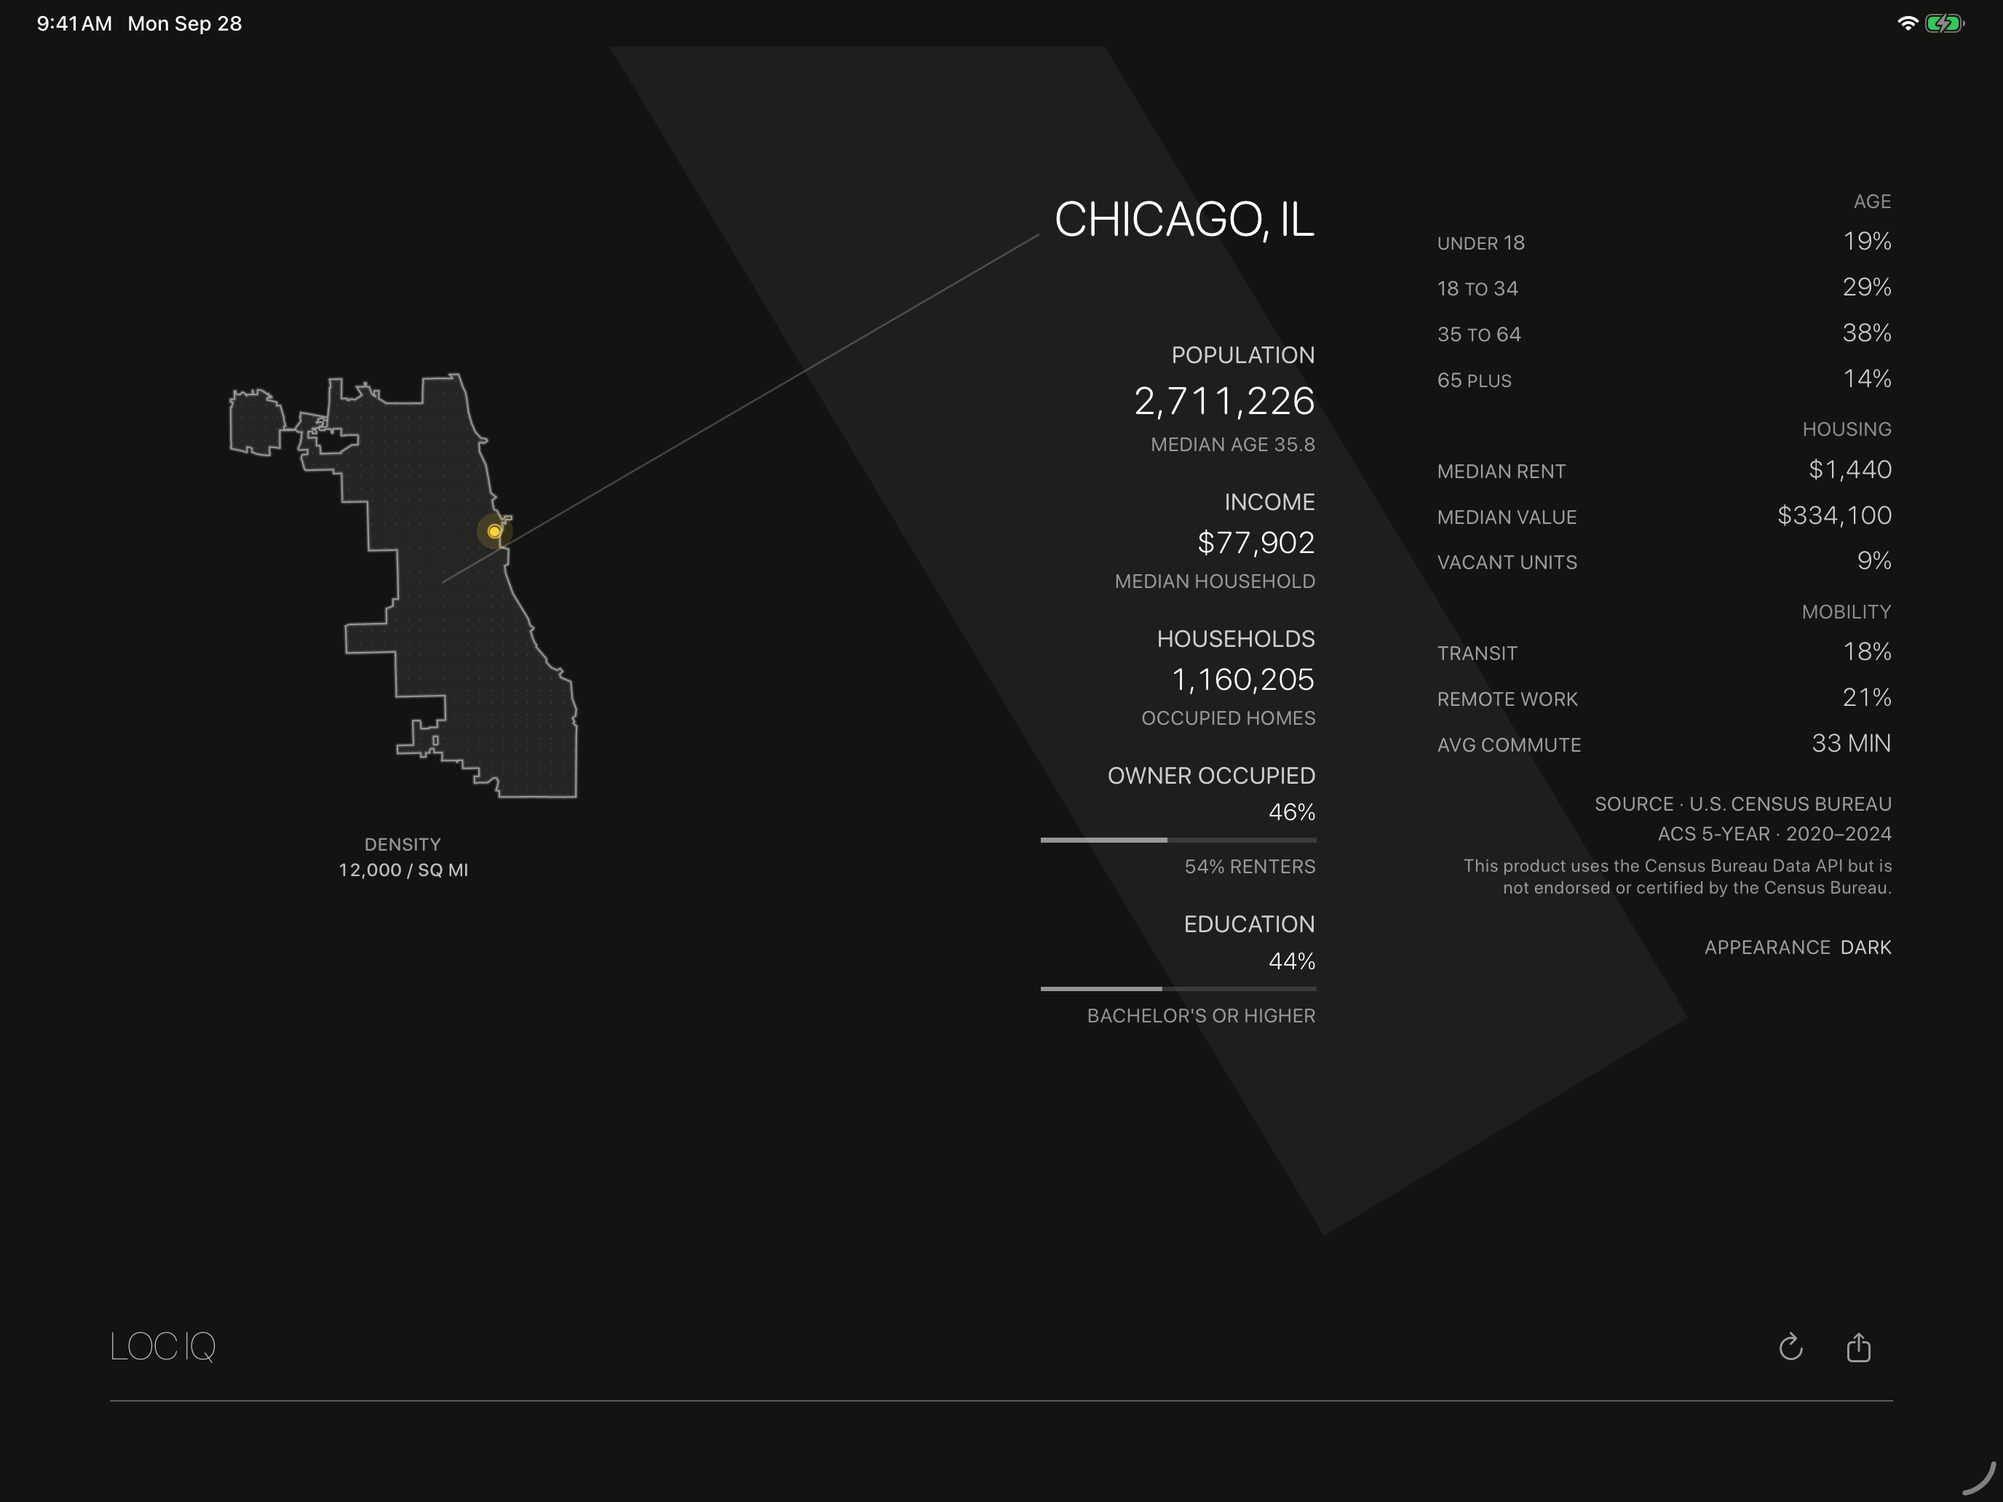
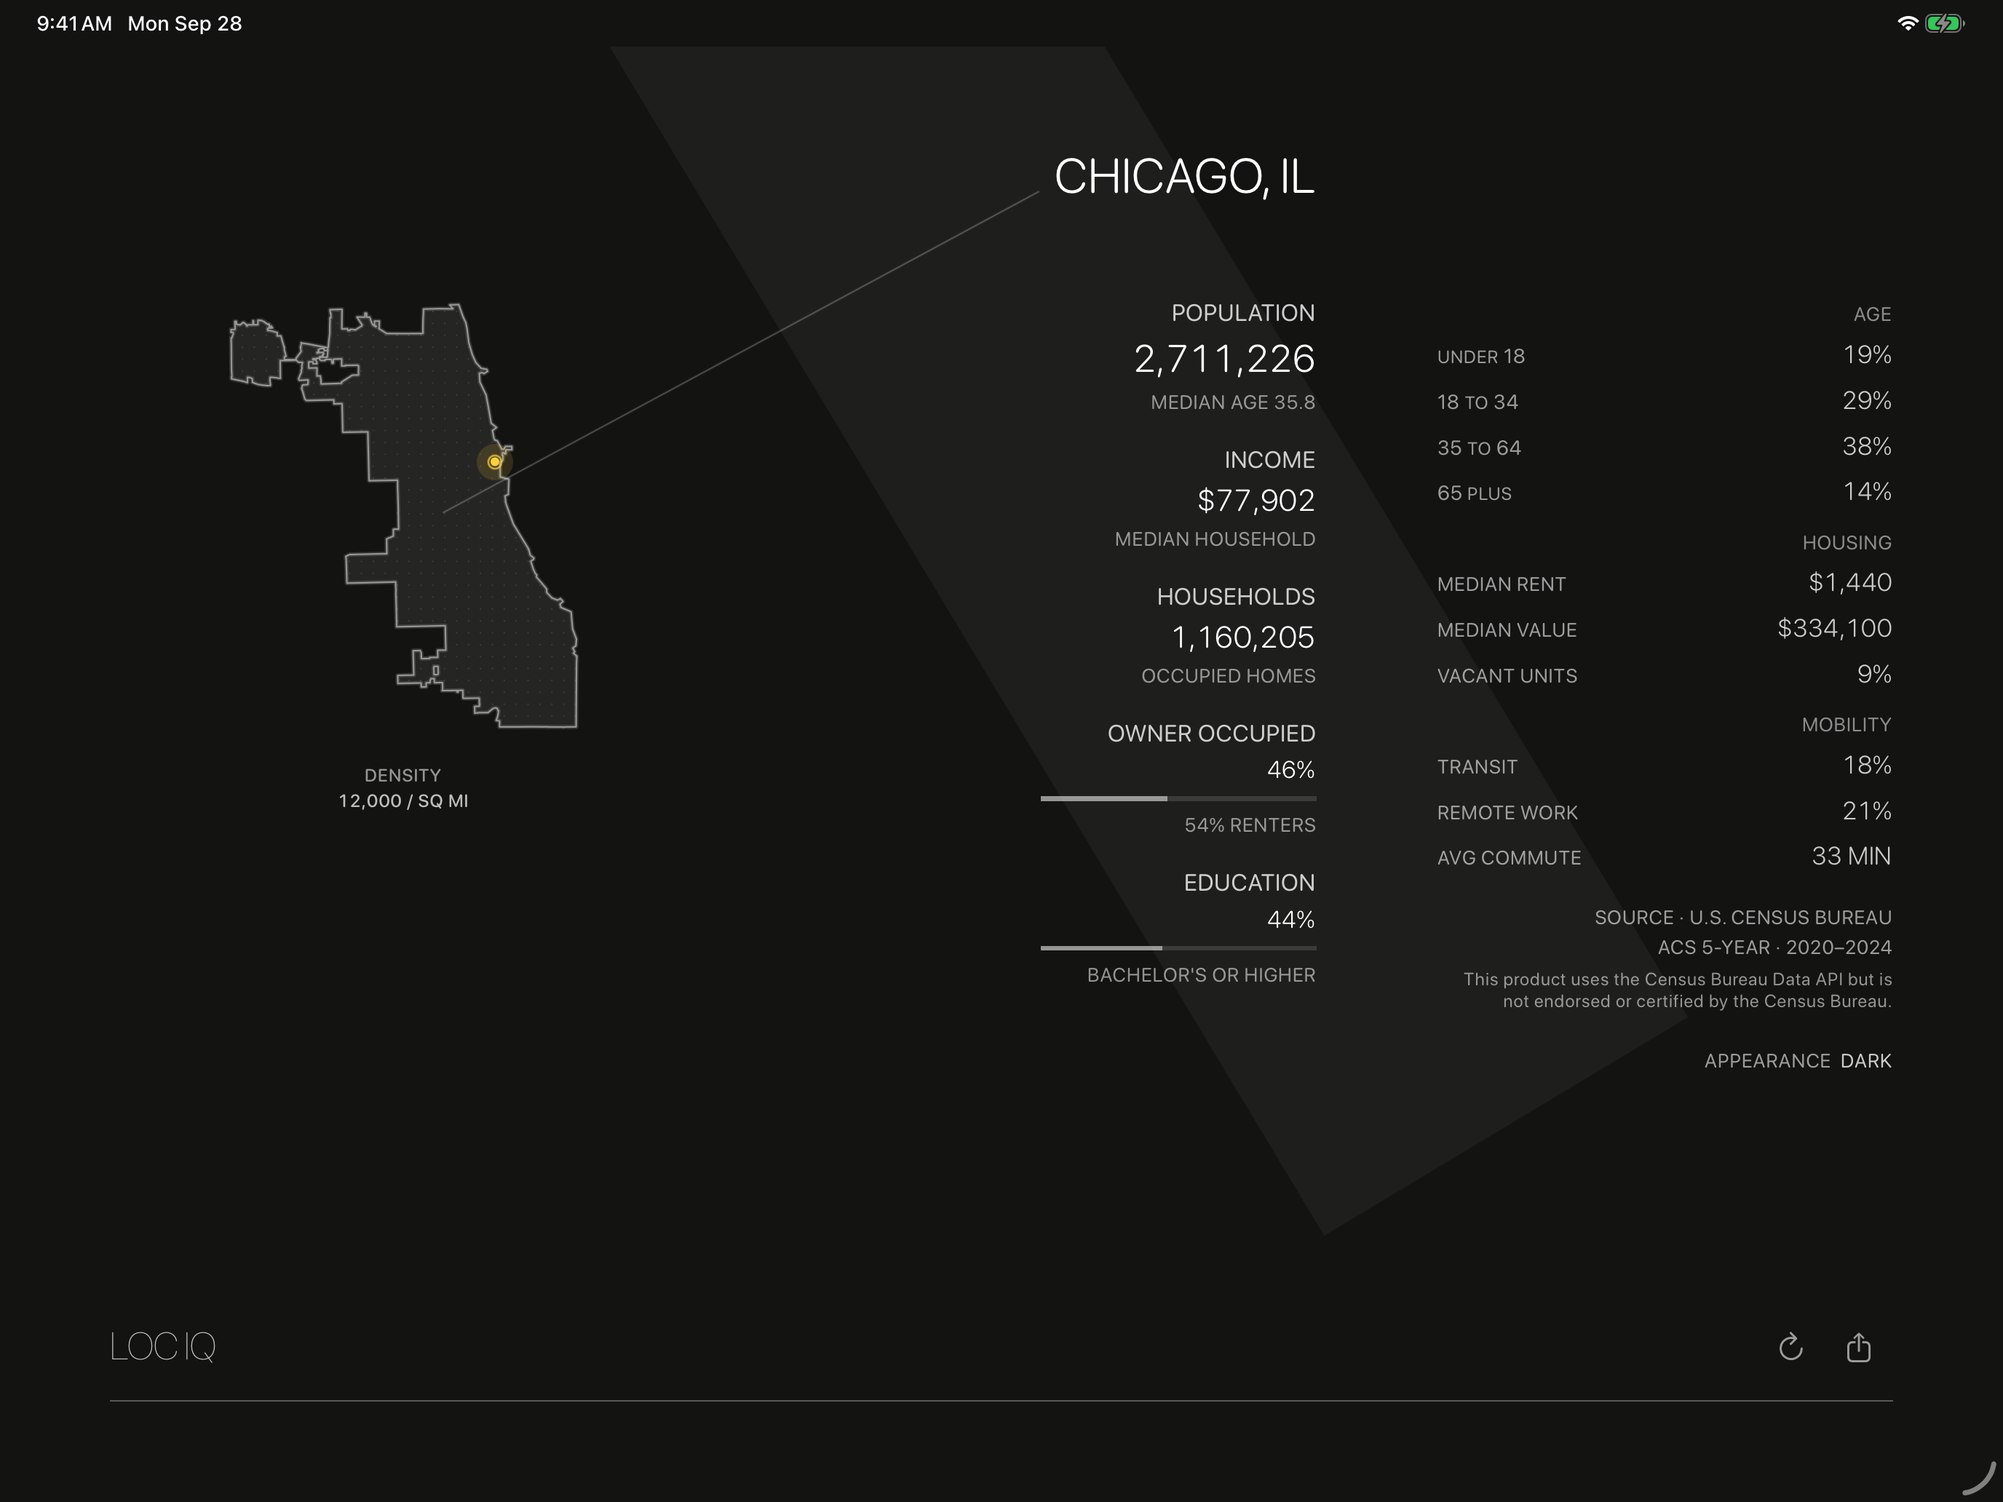
Align the iPad landscape layout
- The city heads the summary column and shares its right edge,
  instead of sitting on a row with the details' first heading.
- Below it, the outline, the summary, and the details start on one
  line. The text columns share their first baseline, and the outline,
  lifted by its drawing inset, meets the top of the first capitals.
  One row holds all three, so the alignment holds whatever the
  title's height.
- The spread keeps a shorter top inset, so the details still fit
  whole on an 11-inch iPad in landscape.
- The iPad UI test checks the new alignment, and the layout test
  checks that the row fills the window's width exactly.
- Refresh the landscape screenshot in the README.

diff --git a/Lociq/ContentView.swift b/Lociq/ContentView.swift
@@ -205,7 +205,8 @@ struct ContentView: View {
             .transition(.opacity)
         } else {
             ZStack(alignment: .topLeading) {
-                if !layout.usesSingleColumn {
+                // A spread places the outline in its row, level with the text.
+                if !layout.usesSingleColumn, !showsDetailsBeside(layout) {
                     boundaryColumn(layout: layout)
                 }
                 contentScroll(layout: layout)
@@ -280,14 +281,10 @@ struct ContentView: View {
     ///
     /// The scroll area ends above the bottom bar. When content is taller than
     /// the area, a short fade and the scroll indicator show that more follows.
-    /// On a spread, the details sit in a quieter column right of the city and
-    /// its summary, from the top, so they fit the window whole and the
-    /// connector never crosses them.
+    /// A spread fills the width: see `spread(layout:)`.
     private func contentScroll(layout: MinimalLayout) -> some View {
         let isSpread = showsDetailsBeside(layout)
-        let columnWidth: CGFloat = layout.usesSingleColumn
-            ? .infinity
-            : (isSpread ? layout.contentWidth + layout.columnGap + layout.detailSidebarWidth : layout.contentWidth)
+        let columnWidth: CGFloat = layout.usesSingleColumn || isSpread ? .infinity : layout.contentWidth
 
         return ScrollView(.vertical, showsIndicators: isContentOverflowing) {
             VStack(alignment: .trailing, spacing: layout.space(34)) {
@@ -359,7 +356,7 @@ struct ContentView: View {
         )
         .padding(.top, layout.topInset)
         .padding(.trailing, layout.trailingInset)
-        .padding(.leading, layout.usesSingleColumn ? layout.horizontalInset : 0)
+        .padding(.leading, layout.usesSingleColumn || isSpread ? layout.horizontalInset : 0)
         .frame(maxWidth: .infinity, maxHeight: .infinity, alignment: .topTrailing)
         .offset(y: contentPullHintOffset)
         .modifier(PullToRefresh(isEnabled: viewState.canPullToRefresh) {
@@ -367,32 +364,63 @@ struct ContentView: View {
         })
     }
 
-    /// A wide iPad window: the city and its summary, with the details beside them.
+    /// A wide iPad window: the city above one row of the outline, the
+    /// summary, and the details.
     ///
-    /// VoiceOver reads the city and summary first, then the details.
+    /// The city heads the summary and shares its right edge. Below it the
+    /// row lines up what the eye sees, whatever the height of the title: the
+    /// summary and the details share their first baseline, and the outline's
+    /// top edge sits level with the top of the first capitals. The connector
+    /// runs from the outline to the city through the empty side of the
+    /// right-aligned summary. VoiceOver reads the city, the summary, the
+    /// details, then the outline.
     private func spread(layout: MinimalLayout) -> some View {
-        HStack(alignment: .top, spacing: layout.columnGap) {
-            VStack(alignment: .trailing, spacing: layout.space(34)) {
-                HeaderBlock(snapshot: displaySnapshot, layout: layout, titleFocus: $isTitleFocused)
-                    .accessibilitySortPriority(1)
-                summaryPanel(layout: layout, showsDetails: false)
-            }
-            .frame(width: layout.contentWidth, alignment: .trailing)
-            .accessibilityElement(children: .contain)
-            .accessibilitySortPriority(2)
+        let capHeight = LociqTypeScale.metricLabelCapHeight(layout)
+        return VStack(alignment: .trailing, spacing: layout.space(34)) {
+            HeaderBlock(snapshot: displaySnapshot, layout: layout, titleFocus: $isTitleFocused)
+                .frame(width: layout.contentWidth, alignment: .trailing)
+                .padding(.trailing, layout.columnGap + layout.detailSidebarWidth)
+                .accessibilitySortPriority(3)
 
-            DetailContent(
-                snapshot: displaySnapshot,
-                layout: layout,
-                themePreference: themePreference,
-                onSelectTheme: selectTheme,
-                isSecondary: true
-            )
-            .frame(width: layout.detailSidebarWidth)
-            .opacity(viewState.isContentDimmed ? 0.45 : 1)
-            .animation(LociqMotion.quick(reduceMotion: reduceMotion), value: viewState.isContentDimmed)
-            .accessibilityElement(children: .contain)
-            .accessibilitySortPriority(1)
+            HStack(alignment: .firstTextBaseline, spacing: 0) {
+                ZStack(alignment: .top) {
+                    // Holds the zone's width until the outline is built.
+                    Color.clear
+                        .frame(width: layout.geographyWidth, height: 0)
+                    if viewState.canShowBoundary, let glyph = locationProfile.boundaryGlyph {
+                        let glyphHeight = glyph.fittedSize(within: layout.boundarySize).height
+                        boundaryStack(glyph: glyph, layout: layout)
+                            // The outline is drawn inset in its frame; lift it by
+                            // that inset so the outline itself meets the line.
+                            .offset(y: -glyphHeight * (1 - glyph.drawingScale) / 2)
+                            .opacity(viewState.isContentDimmed ? 0.45 : 1)
+                            .animation(LociqMotion.quick(reduceMotion: reduceMotion), value: viewState.isContentDimmed)
+                    }
+                }
+                // The zone's top meets the top of the first capitals.
+                .alignmentGuide(.firstTextBaseline) { dimensions in dimensions[.top] + capHeight }
+                .accessibilitySortPriority(0)
+
+                summaryPanel(layout: layout, showsDetails: false)
+                    .frame(width: layout.contentWidth)
+                    .padding(.leading, layout.boundaryGap)
+                    .accessibilityElement(children: .contain)
+                    .accessibilitySortPriority(2)
+
+                DetailContent(
+                    snapshot: displaySnapshot,
+                    layout: layout,
+                    themePreference: themePreference,
+                    onSelectTheme: selectTheme,
+                    isSecondary: true
+                )
+                .frame(width: layout.detailSidebarWidth)
+                .padding(.leading, layout.columnGap)
+                .opacity(viewState.isContentDimmed ? 0.45 : 1)
+                .animation(LociqMotion.quick(reduceMotion: reduceMotion), value: viewState.isContentDimmed)
+                .accessibilityElement(children: .contain)
+                .accessibilitySortPriority(1)
+            }
         }
         .transition(.opacity)
     }

diff --git a/Lociq/Views/MinimalLayout.swift b/Lociq/Views/MinimalLayout.swift
@@ -85,6 +85,13 @@ struct MinimalLayout {
     /// Space between the summary column and the details beside it.
     let columnGap: CGFloat
 
+    /// Width of the zone left of the text that holds the outline, centered;
+    /// zero on phones.
+    let geographyWidth: CGFloat
+
+    /// Space between the outline's zone and the text; zero on phones.
+    let boundaryGap: CGFloat
+
     /// Right inset for the content stack.
     let trailingInset: CGFloat
 
@@ -162,6 +169,8 @@ struct MinimalLayout {
                 : min(width * (isCompactWidth ? 0.55 : 0.50), isCompactWidth ? 214 : 246)
             detailSidebarWidth = 0
             columnGap = 0
+            geographyWidth = 0
+            boundaryGap = 0
             boundarySize = CGSize(
                 width: min(max(width * (isCompactWidth ? 0.25 : 0.28), isCompactWidth ? 82 : 96), isCompactWidth ? 118 : 142),
                 height: min(max(height * (isShortHeight ? 0.16 : 0.19), isShortHeight ? 92 : 112), isShortHeight ? 132 : 158)
@@ -181,14 +190,13 @@ struct MinimalLayout {
         let bodyScale = Self.canvasMultiplier(for: .body, canvasScale: scale)
         let smallScale = Self.canvasMultiplier(for: .caption, canvasScale: scale)
         let margin = min(max(40, width * 0.055), 80)
-        let boundaryGap = 48 * bodyScale
+        let outlineGap = 48 * bodyScale
         canvasScale = scale
         // Vertical rhythm follows the window's height as well as the type, so
         // the composition fills a tall iPad about as much as it fills a phone.
         spacingScale = max(bodyScale, (bodyScale + min(height / 874, 1.6)) / 2)
         isCompactWidth = false
         usesSingleColumn = dynamicTypeSize >= .accessibility1 && width < 1000
-        topInset = max(56, height * 0.1)
         bottomInset = max(40, height * 0.05)
         trailingInset = margin
         horizontalInset = margin
@@ -200,13 +208,16 @@ struct MinimalLayout {
         let summaryWidth = 320 * bodyScale
         let sidebarWidth = 280 * smallScale
         let sidebarGap = 72 * bodyScale
-        let spreadGeographyWidth = width - 2 * margin - boundaryGap - summaryWidth - sidebarGap - sidebarWidth
+        let spreadGeographyWidth = width - 2 * margin - outlineGap - summaryWidth - sidebarGap - sidebarWidth
         let isSpread = !usesSingleColumn
             && dynamicTypeSize < .accessibility1
             && height >= 720
             && spreadGeographyWidth >= 200 * bodyScale
 
-        let geographyWidth: CGFloat
+        // A spread starts its columns below the city, so it keeps the top
+        // inset shorter to show the details whole.
+        topInset = isSpread ? max(48, height * 0.07) : max(56, height * 0.1)
+        boundaryGap = outlineGap
         if isSpread {
             canvas = .spread
             contentWidth = summaryWidth
@@ -224,7 +235,7 @@ struct MinimalLayout {
             detailContentWidth = usesSingleColumn
                 ? contentWidth
                 : min(contentWidth, max(width * 0.36, 300 * smallScale))
-            geographyWidth = usesSingleColumn ? width - 2 * margin : width - 2 * margin - boundaryGap - contentWidth
+            geographyWidth = usesSingleColumn ? width - 2 * margin : width - 2 * margin - outlineGap - contentWidth
         }
 
         // The outline is the anchor of the left side: centered in its zone,

diff --git a/Lociq/Views/LociqTypeScale.swift b/Lociq/Views/LociqTypeScale.swift
@@ -10,6 +10,7 @@
 //
 
 import SwiftUI
+import UIKit
 
 /// Central typography scale for the app UI.
 ///
@@ -46,7 +47,21 @@ enum LociqTypeScale {
 
     /// Returns the summary metric label font.
     static func metricLabel(_ layout: MinimalLayout) -> Font {
-        .system(size: layout.scaled(layout.isCompactWidth ? 13 : 14, relativeTo: .subheadline), weight: .regular, design: .rounded)
+        .system(size: metricLabelSize(layout), weight: .regular, design: .rounded)
+    }
+
+    /// Point size of the summary metric label.
+    static func metricLabelSize(_ layout: MinimalLayout) -> CGFloat {
+        layout.scaled(layout.isCompactWidth ? 13 : 14, relativeTo: .subheadline)
+    }
+
+    /// Cap height of the summary metric label, for aligning shapes with the
+    /// top of its capitals.
+    static func metricLabelCapHeight(_ layout: MinimalLayout) -> CGFloat {
+        let size = metricLabelSize(layout)
+        let font = UIFont.systemFont(ofSize: size, weight: .regular)
+        let rounded = font.fontDescriptor.withDesign(.rounded).map { UIFont(descriptor: $0, size: size) } ?? font
+        return rounded.capHeight
     }
 
     /// Returns the summary metric value font.

diff --git a/LociqUITests/LociqIPadTests.swift b/LociqUITests/LociqIPadTests.swift
@@ -46,6 +46,18 @@ final class LociqIPadTests: XCTestCase {
         XCTAssertLessThan(population.frame.maxX, source.frame.minX)
         XCTAssertLessThan(title.frame.maxY, population.frame.minY)
 
+        // The city heads the summary, sharing its right edge. Below it the
+        // summary and the details share their first baseline (their labels
+        // differ in size, so their tops differ by a few points), and the
+        // outline, lifted by its drawing inset, starts level with them.
+        let firstSection = element(app, "details.section.age")
+        let outline = element(app, "boundary.glyph")
+        XCTAssertTrue(outline.waitForExistence(timeout: 5))
+        XCTAssertEqual(title.frame.maxX, population.frame.maxX, accuracy: 1)
+        XCTAssertEqual(firstSection.frame.minY, population.frame.minY, accuracy: 4)
+        XCTAssertLessThanOrEqual(outline.frame.minY, population.frame.minY + 8)
+        XCTAssertGreaterThanOrEqual(outline.frame.minY, population.frame.minY - outline.frame.height * 0.12 - 2)
+
         attachScreenshot(named: "iPad landscape spread")
     }
 

diff --git a/LociqTests/MinimalLayoutTests.swift b/LociqTests/MinimalLayoutTests.swift
@@ -91,6 +91,12 @@ struct MinimalLayoutTests {
             let textColumnsStart = size.width - layout.trailingInset - layout.detailSidebarWidth - layout.columnGap - layout.contentWidth
             #expect(layout.boundaryLeading >= layout.horizontalInset)
             #expect(layout.boundaryLeading + layout.boundarySize.width < textColumnsStart)
+
+            // One row: the outline's zone, the summary, and the details fill the width exactly.
+            let row = layout.horizontalInset + layout.geographyWidth + layout.boundaryGap
+                + layout.contentWidth + layout.columnGap + layout.detailSidebarWidth + layout.trailingInset
+            #expect(abs(row - size.width) < 0.001)
+            #expect(layout.boundarySize.width <= layout.geographyWidth)
         }
     }
 

diff --git a/Lociq/Views/DetailContent.swift b/Lociq/Views/DetailContent.swift
@@ -67,6 +67,7 @@ private struct DetailSectionView: View {
                 .font(LociqTypeScale.detailSectionLabel(layout))
                 .foregroundStyle(Color.lociq(.sectionTitle))
                 .accessibilityAddTraits(.isHeader)
+                .accessibilityIdentifier("details.section.\(section.title.lowercased())")
 
             VStack(alignment: .trailing, spacing: layout.detailRowSpacing * (isSecondary ? 0.75 : 1)) {
                 ForEach(section.rows) { row in

diff --git a/docs/architecture.md b/docs/architecture.md
@@ -68,7 +68,7 @@ The watch app runs the same flow with the watch's own location and its own cache
 
 - **Phone**, for windows narrower than 600 pt or shorter than 500 pt: every iPhone, Slide Over, and narrow Split View. The original composition, unchanged.
 - **Large**, for other iPad windows: the same composition, grown to the window by `canvasScale` (1 to 1.45, from the window's size relative to 700 x 820 pt). Display type grows fully, body text by 80%, captions by 60%, and spacing follows the window's height. The growth fades out as the user's text size grows, so the accessibility sizes match iPhone and text never gets smaller when text size grows.
-- **Spread**, for wide windows (13-inch and 11-inch iPads in landscape) at least 720 pt tall, at standard text sizes: the details sit in a quieter column beside the city and its summary, so the summary/details toggle is not needed.
+- **Spread**, for wide windows (13-inch and 11-inch iPads in landscape) at least 720 pt tall, at standard text sizes: the city heads the summary and shares its right edge. Below it the outline, the summary, and the details, in a quieter column, start on one line: the text columns share their first baseline, and the outline, lifted by its drawing inset, meets the top of the first capitals. The details column replaces the summary/details toggle.
 
 Two columns stay until the accessibility sizes on large canvases, and at every size on windows 1,000 pt or wider. The menu bar and keyboard offer Summary (⌘1), Details (⌘2), Refresh (⌘R), and Appearance, and the bottom controls highlight under the pointer.
 
